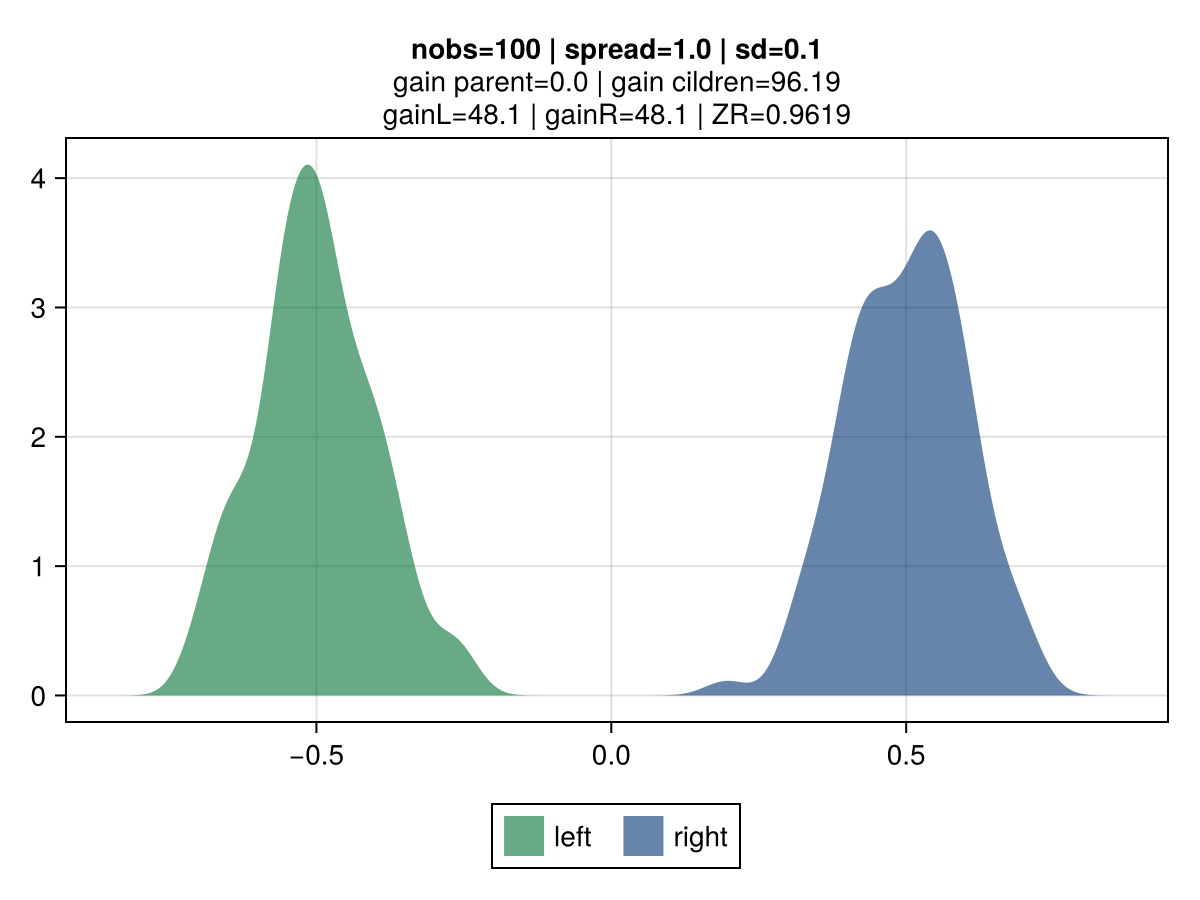
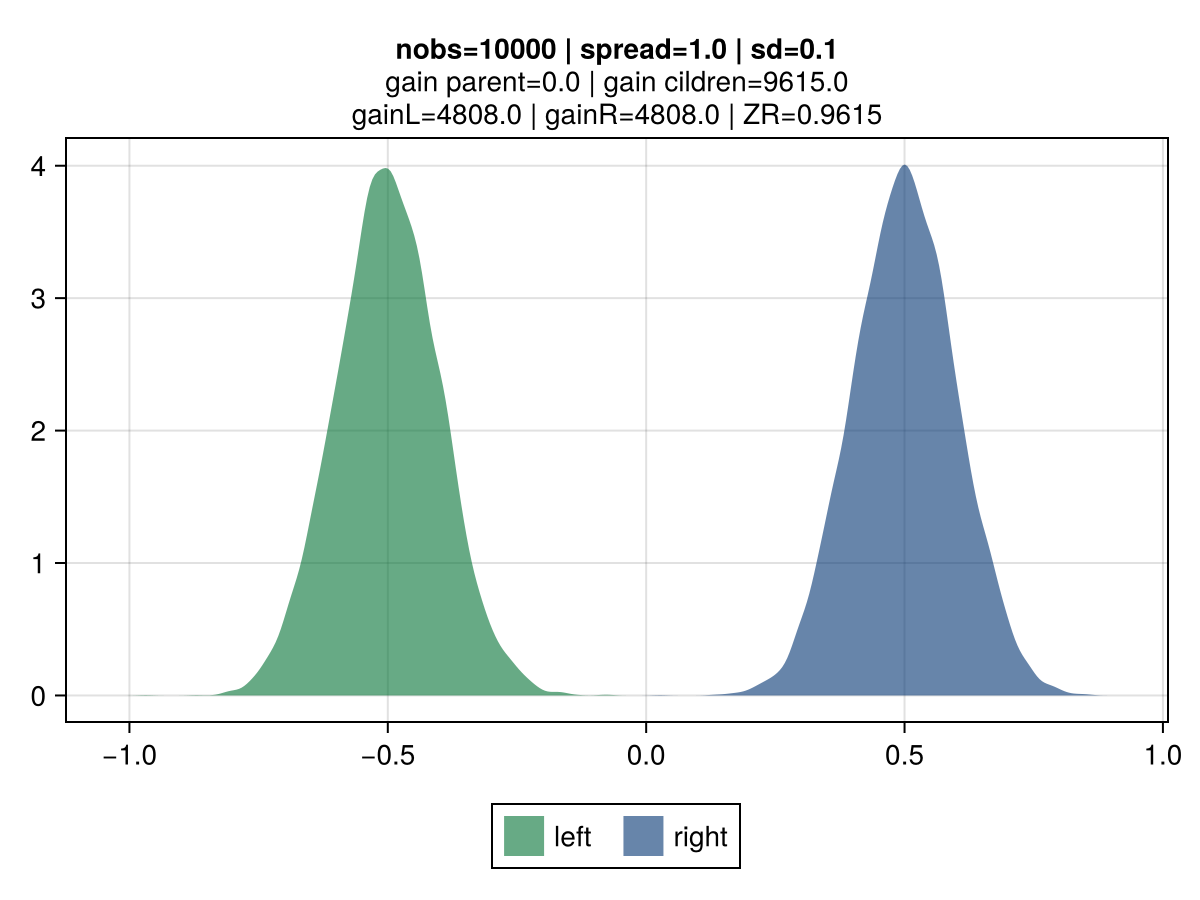
up

diff --git a/blog/cred/README.md b/blog/cred/README.md
@@ -10,14 +10,13 @@ Key observations:
 - **the gain is invariant to the volatility**: the top vs bottom figures differs only by the std dev of the observations.
     The associated gain is identical, which is aligned with the gradient-based approach to gain: the gain matches the reduction in the MSE, which is identical regardless of the dispersion. It's strictly driven by their mean.
 - **the gain scales linearly with the number of observations**: the right vs left figures contrasts different number of observations (100 vs 10k), and show that gain is directly proportional.
+- **the gain scales quadratically with the size of the spread**: moving from a spread of 1.0 to 0.1 between the 2nd and 3rd row results in a drop by 100x of the gain: from 50.0 to 0.5.
 
-````julia
-loss = :mse
-````
 
-| ![](assets/dist-mse-1.png) | ![](assets/dist-mse-2.png) |
+| ![](assets/dist-mse-1A.png) | ![](assets/dist-mse-1B.png) |
 |:----------------------:|:----------------------:|
-| ![](assets/dist-mse-2B.png) | ![](assets/dist-mse-2B.png) |
+| ![](assets/dist-mse-2A.png) | ![](assets/dist-mse-2B.png) |
+| ![](assets/dist-mse-3A.png) | ![](assets/dist-mse-3B.png) |
 
 ## Credibility-based gains
 
@@ -28,13 +27,35 @@ Key concept is that the credibility associated with a set of observations is dri
  - **Variance of the Hypothetical Means (VHM)**: if large differences between candidates are expected, then a greater credibility will be assigned to that candidate.
  - **Expected Value of the Process Variance (EVPV)**: if the data generation process of a given candidate has a large volatility, a  smaller credibility will be assigned.
 
-````julia
-loss = :credV1A
-````
+This approach results in a shift of perspective in how the gain is derived.
+Classical gradient based is about deriving a second-order approximation of the loss curve for a tre-split candidate.
+The gain corresponds to the reduction in this approximated loss by taking the prediciton that minimises the quadratic loss curve.
 
-| ![](assets/dist-cred-2.png) | ![](assets/dist-cred-3.png) |
+The credibility-based takes a loss function agnostic approach, and view the gain as the total absolute change in the credibility-adjusted predicted value.
+Example, if a child has a mean residual of *2.0*, credibility of 0.5 and 100 observations, the resulting gain is: `2.0 * 0.5 * 100 = 100.0`, where `2.0 * 0.5` corresponds to the credibility adjusted prediction.
+
+VHM is estimated as the square of the mean of the spread between observed values and predictions: `mean(y - p)`.
+EVPV is estimated as the variance of the observations. This value can be derived from the aggregation of the first (`y - p`) and second (`(y - p)^2`) moment of the individual observations:
+ - `EVPV = E[(x - μ)^2] = E[X^2] - E[X]^2
+
+### Credibility-based gains - credV1A
+Same as for the previous the gradient-based MSE error, the gain grows linearly with the number of observations, all other things being equal.
+However, a smaller volatility results in an increased gain, as shown in 2nd vs 1st row.
+
+
+| ![](assets/dist-credV1A-1A.png) | ![](assets/dist-credV1A-1B.png) |
 |:----------------------:|:----------------------:|
-| ![](assets/dist-cred-2B.png) | ![](assets/dist-cred-3B.png) |
+| ![](assets/dist-credV1A-2A.png) | ![](assets/dist-credV1A-2B.png) |
+| ![](assets/dist-credV1A-3A.png) | ![](assets/dist-credV1A-3B.png) |
+
+### Credibility-based gains - credV2A
+This approach is a variation where the credibility is computed from std deviation rather than variance measures.
+
+
+| ![](assets/dist-credV2A-1A.png) | ![](assets/dist-credV2A-1B.png) |
+|:----------------------:|:----------------------:|
+| ![](assets/dist-credV2A-2A.png) | ![](assets/dist-credV2A-2B.png) |
+| ![](assets/dist-credV2A-3A.png) | ![](assets/dist-credV2A-3B.png) |
 
 ## Credibility figures
 
@@ -52,22 +73,24 @@ sd = 1.0
 nobs_list = Int.(10.0 .^ (0:6))
 nobs_list[1] = 2
 spread_list = [0.001, 0.01, 0.1, 0.5, 1, 2, 10, 100]
-
 ````
 
-| ![](assets/heatmap-credV1A.png) | ![](assets/heatmap-credV2A.png) |
+| ![](assets/heatmap-credV1A.png) | ![](assets/heatmap-credV1B.png) |
 |:----------------------:|:----------------------:|
-| ![](assets/heatmap-credV1B.png) | ![](assets/heatmap-credV2B.png) |
+| ![](assets/heatmap-credV2A.png) | ![](assets/heatmap-credV2B.png) |
 
 ````julia
 # simulation grid
-sd_list = [0.1, 0.2, 0.5, 1.0, 2.0, 10.0]
 nobs = 100
+sd_list = [0.1, 0.2, 0.5, 1.0, 2.0, 10.0]
 spread_list = [0.001, 0.01, 0.1, 0.5, 1, 2, 10, 100]
-
 ````
 
-| ![](assets/heatmapB-credV1A.png) | ![](assets/heatmapB-credV2A.png) |
+| ![](assets/heatmapB-credV1A.png) | ![](assets/heatmapB-credV1A.png) |
 |:----------------------:|:----------------------:|
-| ![](assets/heatmapB-credV1B.png) | ![](assets/heatmapB-credV2B.png) |
+| ![](assets/heatmapB-credV2A.png) | ![](assets/heatmapB-credV2B.png) |
+
+## Results
+
+From [MLBenchmarks.jl](https://github.com/Evovest/MLBenchmarks.jl).
 
